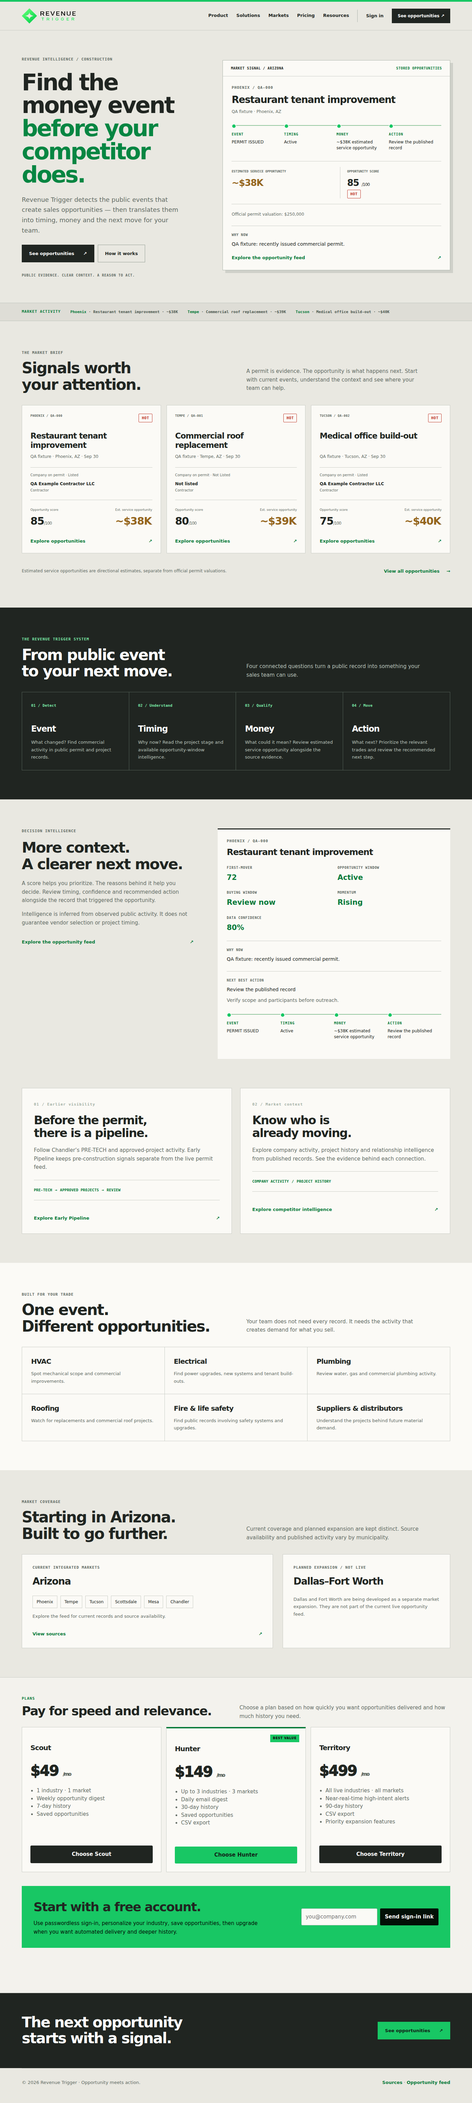
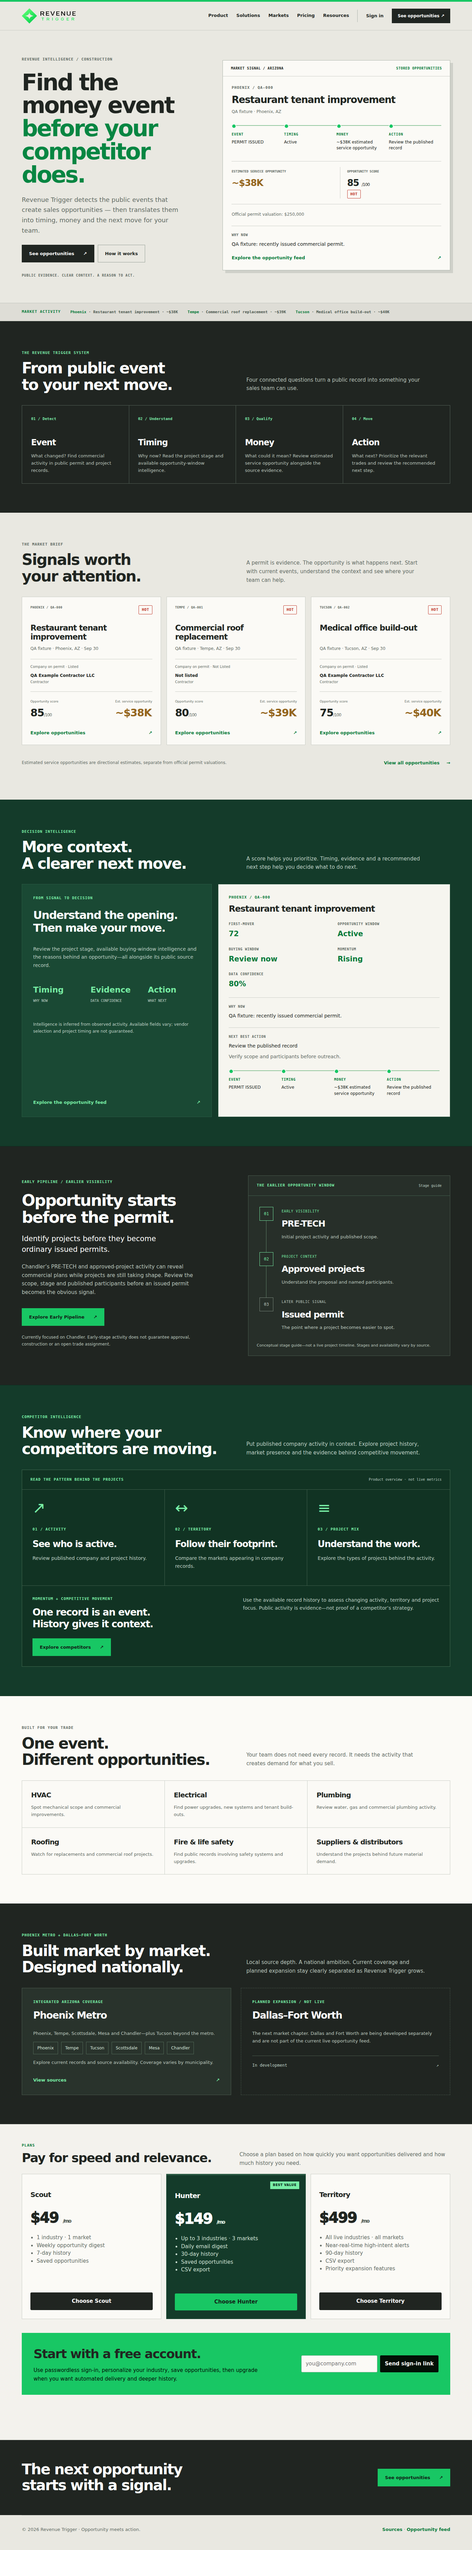
Refine homepage section hierarchy and green product storytelling

diff --git a/frontend/public/assets/rt-marketing.css b/frontend/public/assets/rt-marketing.css
@@ -1,3 +1,65 @@
 .rt-marketing main{overflow:clip}.rt-marketing .rt-hero{padding:76px 0 62px}.rt-hero-grid{display:grid;grid-template-columns:.88fr 1.12fr;gap:64px;align-items:start}.rt-marketing .rt-hero h1{font-size:clamp(45px,4.8vw,68px);line-height:1.02;letter-spacing:-.055em;margin:24px 0;max-width:600px;font-weight:800}.rt-marketing .rt-hero h1 em{font-style:normal;color:#078642!important}.rt-hero-lead{font-size:18px;color:var(--rt-muted);max-width:480px;margin-bottom:26px}.rt-hero-actions{display:flex;flex-wrap:wrap;gap:10px}.rt-hero-foot{font:600 10px/1.5 ui-monospace,monospace;letter-spacing:.08em;text-transform:uppercase;color:var(--rt-muted);margin-top:30px}.rt-command{background:var(--paper);border:1px solid #adb5ac;box-shadow:8px 8px 0 #cfd0c9;position:relative;margin-top:10px}.rt-command-head{display:flex;justify-content:space-between;gap:20px;align-items:center;border-bottom:1px solid var(--rt-line);padding:15px 23px;font:650 10px/1.5 ui-monospace,monospace;text-transform:uppercase;letter-spacing:.06em}.rt-command-head span:last-child{color:var(--green-dark)}.rt-command-body{padding:25px}.rt-command h2{font-size:28px;line-height:1.13;margin:10px 0}.rt-command p.rt-muted{font-size:12px;margin:8px 0}.rt-command .rt-decision-metrics{grid-template-columns:1fr 1fr}.rt-command .rt-decision-metrics>div:nth-child(n+3){display:none}.rt-command .rt-decision-metrics strong{font-size:20px}.rt-command .rt-reason:last-child{display:none}.rt-command .rt-trigger-timeline{grid-template-columns:repeat(4,1fr)}.rt-command-value{border-block:1px solid var(--rt-line);padding:16px 0;margin:20px 0;display:grid;grid-template-columns:1fr 1fr;gap:20px}.rt-command-value strong{display:block;font-size:26px;letter-spacing:-.04em;margin-top:5px}.rt-command-value small{font:600 9px/1.5 ui-monospace,monospace;text-transform:uppercase;color:var(--rt-muted)}.rt-command-value>div+div{border-left:1px solid var(--rt-line);padding-left:20px}.rt-command-value p{margin:3px 0 0;font-size:10px;color:var(--rt-muted)}.rt-ticker{border-block:1px solid #bec4bb;background:#deddd6}.rt-ticker-inner{display:flex;align-items:center;gap:28px;padding:17px 0;overflow:auto;scrollbar-width:thin}.rt-ticker .rt-kicker{white-space:nowrap;color:var(--green-dark);font-weight:750}.rt-ticker-item{white-space:nowrap;font:550 11px/1.4 ui-monospace,monospace;color:#505b52}.rt-ticker-item strong{color:var(--green-dark)}.rt-block{padding:84px 0}.rt-section-head{display:grid;grid-template-columns:1fr 1fr;gap:60px;align-items:end;margin-bottom:36px}.rt-section-head h2{font-size:44px;line-height:1.08;margin:12px 0 0}.rt-section-head p{margin:0;max-width:520px;color:var(--rt-muted)}.rt-preview-grid{display:grid;grid-template-columns:repeat(3,1fr);gap:16px}.rt-preview-card{background:var(--paper);border:1px solid var(--rt-line);padding:24px;display:flex;flex-direction:column;min-width:0}.rt-card-top{display:flex;align-items:start;justify-content:space-between;gap:16px}.rt-card-top .rt-kicker{font-size:9px;letter-spacing:.04em}.rt-preview-card h3{font-size:23px;line-height:1.15;margin:26px 0 10px;min-height:54px}.rt-card-address{font-size:12px;color:var(--rt-muted);margin:0 0 20px}.rt-card-company{border-block:1px solid var(--rt-line);padding:14px 0;margin-top:auto;min-height:80px}.rt-card-company small{display:block;color:var(--rt-muted);font-size:10px;margin-bottom:6px}.rt-card-company strong{font-size:12px;font-weight:600}.rt-card-metrics{display:flex;justify-content:space-between;gap:15px;padding:22px 0 8px}.rt-card-metrics small{display:block;font-size:9px;color:var(--rt-muted)}.rt-card-metrics strong{display:block;font-size:30px;letter-spacing:-.04em;margin-top:3px}.rt-card-metrics strong span{font-size:12px;color:var(--rt-muted);font-weight:500}.rt-block-foot{margin-top:30px;display:flex;justify-content:space-between;align-items:center;gap:25px}.rt-block-foot p{font-size:12px;color:var(--rt-muted)}.rt-block-foot .rt-text-link{padding:0;white-space:nowrap}.rt-dark{background:var(--graphite);color:white}.rt-dark .rt-kicker{color:#78e6a4}.rt-dark h2,.rt-dark h3{color:#fff!important}.rt-dark .rt-section-head p{color:#b9c3bb}.rt-flow{display:grid;grid-template-columns:repeat(4,1fr);border:1px solid #536056}.rt-flow article{border-right:1px solid #536056;padding:26px;min-height:220px}.rt-flow article:last-child{border-right:0}.rt-flow small{font:600 11px/1.5 ui-monospace,monospace;color:#78e6a4}.rt-flow h3{font-size:24px;margin:40px 0 10px}.rt-flow p{font-size:13px;color:#b9c3bb;margin:0}.rt-decision-grid{display:grid;grid-template-columns:.85fr 1.15fr;gap:70px;align-items:start}.rt-decision-copy h2{font-size:43px;line-height:1.1;margin:16px 0 20px}.rt-decision-copy p{color:var(--rt-muted)}.rt-decision-panel{border-top:3px solid var(--graphite);background:var(--paper);padding:26px}.rt-decision-panel h3{font-size:25px;line-height:1.15;margin:10px 0}.rt-feature-grid{display:grid;grid-template-columns:1fr 1fr;gap:24px}.rt-feature{background:var(--paper);border:1px solid var(--rt-line);padding:34px}.rt-feature h2{font-size:34px;line-height:1.1;margin:18px 0}.rt-feature p{color:var(--rt-muted);font-size:15px}.rt-feature-index{color:#a4b0a5;font:600 11px ui-monospace,monospace;letter-spacing:.1em}.rt-feature-stages{display:flex;flex-wrap:wrap;gap:8px;border-block:1px solid var(--rt-line);padding:22px 0;margin:24px 0;font:650 11px ui-monospace,monospace;color:var(--green-dark)}.rt-trades{display:grid;grid-template-columns:repeat(3,1fr);border-top:1px solid var(--rt-line);border-left:1px solid var(--rt-line)}.rt-trades article{padding:26px;border-right:1px solid var(--rt-line);border-bottom:1px solid var(--rt-line)}.rt-trades h3{font-size:20px;margin:0 0 10px}.rt-trades p{color:var(--rt-muted);font-size:13px;margin:0}.rt-market-grid{display:grid;grid-template-columns:1.2fr .8fr;gap:28px}.rt-market-panel{border:1px solid var(--rt-line);padding:30px;background:var(--paper)}.rt-market-panel h3{font-size:28px;margin:10px 0 20px}.rt-market-list{display:flex;gap:9px;flex-wrap:wrap}.rt-market-list span{padding:8px 11px;border:1px solid var(--rt-line);font-size:12px}.rt-market-panel p{color:var(--rt-muted);font-size:13px}.rt-final{background:var(--graphite);padding:62px 0;color:white}.rt-final .wrap{display:flex;align-items:center;justify-content:space-between;gap:35px}.rt-final h2{color:white!important;font-size:42px;margin:0;line-height:1.1;max-width:650px}.rt-unavailable{color:var(--rt-muted);padding:20px 0;line-height:1.6;font-size:14px}.rt-notification{padding:18px 24px;margin-top:22px;background:var(--paper);border-left:3px solid var(--green-dark);font-size:14px}.rt-notification[hidden]{display:none}.rt-notification a{color:var(--green-dark);text-decoration:underline}.rt-preview-empty{grid-column:1/-1;padding:35px;border:1px solid var(--rt-line);color:var(--rt-muted)}
 @media(max-width:1000px){.rt-hero-grid{gap:35px;grid-template-columns:1fr 1fr}.rt-marketing .rt-hero h1{font-size:52px}.rt-preview-grid{gap:12px}.rt-preview-card{padding:18px}.rt-preview-card h3{font-size:20px}.rt-card-metrics strong{font-size:25px}.rt-decision-grid{gap:35px}.rt-flow article{padding:20px}.rt-section-head h2{font-size:38px}}
 @media(max-width:700px){.rt-marketing .rt-hero{padding:38px 0 40px}.rt-hero-grid,.rt-section-head,.rt-decision-grid,.rt-feature-grid,.rt-market-grid{grid-template-columns:1fr;gap:30px}.rt-marketing .rt-hero h1{font-size:48px;max-width:430px}.rt-hero-lead{font-size:16px}.rt-hero-actions{gap:9px}.rt-hero-actions .rt-button{padding:13px 14px;gap:10px;font-size:12px}.rt-command{margin:10px 6px 0 0;box-shadow:6px 6px 0 #cfd0c9}.rt-command-body{padding:22px}.rt-command h2{font-size:25px}.rt-command .rt-trigger-timeline{grid-template-columns:1fr 1fr}.rt-command-head{padding:14px 20px;font-size:9px}.rt-command-value strong{font-size:23px}.rt-command-value>div+div{padding-left:14px}.rt-block{padding:48px 0}.rt-section-head{gap:18px;margin-bottom:26px}.rt-section-head h2,.rt-decision-copy h2{font-size:35px}.rt-preview-grid{grid-template-columns:1fr;gap:16px}.rt-preview-card{padding:24px}.rt-preview-card h3{font-size:25px;min-height:0;margin-top:20px}.rt-card-metrics strong{font-size:32px}.rt-block-foot{display:block}.rt-block-foot .rt-text-link{margin-top:18px;white-space:normal}.rt-flow{grid-template-columns:1fr 1fr}.rt-flow article{min-height:200px;border-bottom:1px solid #536056}.rt-flow article:nth-child(2){border-right:0}.rt-flow article:nth-child(n+3){border-bottom:0}.rt-flow h3{margin-top:30px;font-size:21px}.rt-flow p{font-size:12px}.rt-feature{padding:27px}.rt-feature h2{font-size:31px}.rt-trades{grid-template-columns:1fr 1fr}.rt-trades article{padding:20px}.rt-trades h3{font-size:17px}.rt-trades p{font-size:12px}.rt-final{padding:42px 0}.rt-final .wrap{display:block}.rt-final h2{font-size:36px}.rt-final .rt-button{margin-top:24px}}
+/* Homepage visual pass: scoped themes preserve the opening sections. */
+.rt-marketing .rt-deep-green{background:#143b2a;border-block:1px solid #0d2d1f;color:#fff}
+.rt-marketing .rt-deep-green>.wrap>.rt-section-head h2,.rt-marketing .rt-deep-green .rt-decision-intro h3,.rt-marketing .rt-deep-green .rt-competitor-preview h3{color:#fff!important}
+.rt-marketing .rt-deep-green .rt-section-head p{color:#bfd1c6}
+.rt-marketing .rt-deep-green .rt-kicker{color:#79efa6}
+.rt-marketing #intelligence .rt-decision-grid{grid-template-columns:.9fr 1.1fr;gap:18px;align-items:stretch}
+.rt-marketing .rt-decision-intro{background:#1a4934;border:1px solid #2b5b44;padding:32px;display:flex;flex-direction:column}
+.rt-marketing .rt-decision-intro h3{font-size:32px;line-height:1.15;margin:22px 0 18px}
+.rt-marketing .rt-decision-intro p{color:#bdd0c4;font-size:14px}
+.rt-marketing .rt-decision-principles{display:grid;grid-template-columns:repeat(3,1fr);gap:14px;margin:28px 0}
+.rt-marketing .rt-decision-principles strong{display:block;font-size:23px;color:#77eca3}
+.rt-marketing .rt-decision-principles span{display:block;margin-top:7px;font:10px/1.5 ui-monospace,monospace;text-transform:uppercase;color:#bfd1c6}
+.rt-marketing .rt-decision-intro .rt-text-link{color:#79efa6;margin-top:auto}
+.rt-marketing #intelligence .rt-decision-panel{background:#f6f5ef;border:1px solid #355e49;padding:30px;color:var(--graphite)}
+.rt-marketing #intelligence .rt-decision-panel .rt-kicker{color:var(--green-dark)}
+.rt-marketing .rt-product-dark{background:#202521;color:#fff}
+.rt-marketing .rt-product-dark h2,.rt-marketing .rt-product-dark h3{color:#fff!important}
+.rt-marketing .rt-product-dark .rt-kicker{color:#79efa6}
+.rt-marketing .rt-product-dark p{color:#bcc8bf}
+.rt-marketing .rt-product-grid{display:grid;grid-template-columns:1fr 1fr;gap:70px;align-items:center}
+.rt-marketing .rt-product-copy h2{font-size:clamp(34px,3.5vw,46px);line-height:1.08;margin:20px 0}
+.rt-marketing .rt-product-copy .rt-product-lead{font-size:21px;color:#fff;line-height:1.5;max-width:430px}
+.rt-marketing .rt-product-copy>p{font-size:15px;max-width:510px}
+.rt-marketing .rt-product-copy .rt-button{margin-top:18px}
+.rt-marketing .rt-caveat{font-size:12px!important;line-height:1.65;margin-top:24px}
+.rt-marketing .rt-stage-preview{border:1px solid #4b5b4f;background:#272f29}
+.rt-marketing .rt-preview-heading{padding:20px 24px;border-bottom:1px solid #41604d;display:flex;justify-content:space-between;align-items:center;gap:20px}
+.rt-marketing .rt-preview-heading>span:last-child{font:10px/1.5 ui-monospace,monospace;color:#bfd1c6;text-align:right}
+.rt-marketing .rt-project-stages{list-style:none;margin:0;padding:32px}
+.rt-marketing .rt-project-stages li{display:flex;gap:24px;position:relative;padding-bottom:34px}
+.rt-marketing .rt-project-stages li:not(:last-child):before{content:'';position:absolute;left:19px;top:40px;bottom:0;border-left:1px solid #63846c}
+.rt-marketing .rt-stage-index{flex:0 0 40px;height:40px;border:1px solid #79efa6;display:grid;place-items:center;color:#79efa6;font:12px ui-monospace,monospace}
+.rt-marketing .rt-project-stages small{font:10px ui-monospace,monospace;text-transform:uppercase;color:#79efa6;letter-spacing:.08em}
+.rt-marketing .rt-project-stages h3{font-size:25px;margin:8px 0}
+.rt-marketing .rt-project-stages p{font-size:13px;margin:0}
+.rt-marketing .rt-project-stages .rt-stage-later{padding-bottom:0}
+.rt-marketing .rt-stage-later .rt-stage-index{border-color:#7b897e;color:#bcc8bf}
+.rt-marketing .rt-stage-later small{color:#bcc8bf}
+.rt-marketing .rt-preview-caption{padding:0 24px 20px;font-size:11px!important;margin:0}
+.rt-marketing .rt-competitor-preview{border:1px solid #416b52;background:#113323}
+.rt-marketing .rt-movement-grid{display:grid;grid-template-columns:repeat(3,1fr)}
+.rt-marketing .rt-movement-grid article{padding:30px;border-right:1px solid #41604d}
+.rt-marketing .rt-movement-grid article:last-child{border:0}
+.rt-marketing .rt-movement-symbol{display:block;font-size:45px;color:#79efa6;margin-bottom:32px;line-height:1}
+.rt-marketing .rt-movement-grid h3{font-size:26px;line-height:1.2;margin:18px 0 12px}
+.rt-marketing .rt-movement-grid p,.rt-marketing .rt-momentum-strip p{font-size:14px;color:#bfd1c6}
+.rt-marketing .rt-momentum-strip{padding:30px;border-top:1px solid #41604d;display:grid;grid-template-columns:1fr 1fr;gap:24px 40px;align-items:start}
+.rt-marketing .rt-momentum-strip h3{font-size:28px;line-height:1.2;margin:14px 0 0}
+.rt-marketing .rt-momentum-strip p{margin:0}
+.rt-marketing .rt-momentum-strip .rt-button{justify-self:start}
+.rt-marketing #markets .rt-market-grid{grid-template-columns:1fr 1fr}
+.rt-marketing #markets .rt-market-panel{background:#29332c;border-color:#4b5b4f;padding:32px}
+.rt-marketing #markets .rt-market-planned{background:transparent;border-style:dashed}
+.rt-marketing #markets .rt-market-list span{border-color:#526a58;color:#d7e7dc}
+.rt-marketing #markets .rt-text-link{color:#79efa6}
+.rt-marketing .rt-planned-label{border-top:1px solid #4b5b4f;margin-top:32px;padding-top:20px;display:flex;justify-content:space-between;font:12px ui-monospace,monospace;color:#bfd1c6}
+body.rt-marketing #pricing .price.featured{background:#143b2a!important;border-color:#2b5b44!important;color:#fff!important}
+body.rt-marketing #pricing .price.featured h3,body.rt-marketing #pricing .price.featured .money{color:#fff!important}
+body.rt-marketing #pricing .price.featured small,body.rt-marketing #pricing .price.featured li{color:#d0e2d6!important}
+body.rt-marketing #pricing .price.featured .badge{background:#79efa6!important;color:#143b2a!important}
+@media(max-width:900px){.rt-marketing .rt-product-grid{gap:30px}.rt-marketing .rt-decision-principles{grid-template-columns:1fr;gap:15px}.rt-marketing .rt-decision-principles strong{font-size:20px}.rt-marketing .rt-movement-grid article{padding:22px}.rt-marketing .rt-movement-grid h3{font-size:23px}}
+@media(max-width:700px){.rt-marketing #intelligence .rt-decision-grid,.rt-marketing .rt-product-grid,.rt-marketing #markets .rt-market-grid,.rt-marketing .rt-momentum-strip{grid-template-columns:1fr}.rt-marketing .rt-decision-intro,.rt-marketing #intelligence .rt-decision-panel{padding:24px}.rt-marketing .rt-decision-principles{grid-template-columns:repeat(3,1fr);gap:8px}.rt-marketing .rt-decision-principles strong{font-size:17px}.rt-marketing .rt-decision-principles span{font-size:9px}.rt-marketing .rt-decision-intro h3{font-size:29px}.rt-marketing .rt-preview-heading{align-items:start;padding:18px;gap:16px}.rt-marketing .rt-project-stages{padding:26px 20px}.rt-marketing .rt-movement-grid{grid-template-columns:1fr}.rt-marketing .rt-movement-grid article{border-right:0;border-bottom:1px solid #41604d;padding:25px}.rt-marketing .rt-movement-symbol{margin-bottom:22px;font-size:36px}.rt-marketing .rt-momentum-strip{padding:25px}.rt-marketing #markets .rt-market-panel{padding:26px}}

diff --git a/frontend/public/index.html b/frontend/public/index.html
@@ -6,12 +6,20 @@
 <main>
 <section class="rt-hero"><div class="wrap rt-hero-grid"><div><span class="rt-kicker">Revenue intelligence / construction</span><h1>Find the money event <em>before your competitor does.</em></h1><p class="rt-hero-lead">Revenue Trigger detects the public events that create sales opportunities — then translates them into timing, money and the next move for your team.</p><div class="rt-hero-actions"><a class="rt-button" href="/signals">See opportunities <span aria-hidden="true">↗</span></a><a class="rt-button secondary" href="#product">How it works</a></div><p class="rt-hero-foot">Public evidence. Clear context. A reason to act.</p></div><div class="rt-command"><div class="rt-command-head"><span>Market signal / Arizona</span><span id="heroState">Connecting</span></div><div class="rt-command-body" id="heroSignal" aria-live="polite"><p class="rt-unavailable">Loading a current opportunity…</p></div></div></div></section>
 <div class="rt-ticker"><div class="wrap rt-ticker-inner"><span class="rt-kicker">Market activity</span><div id="marketTicker" class="rt-ticker-inner" style="padding:0" aria-live="polite"><span class="rt-ticker-item">Checking current public signals…</span></div></div></div>
-<section class="rt-block" id="opportunities"><div class="wrap"><div class="rt-section-head"><div><span class="rt-kicker">The market brief</span><h2>Signals worth<br>your attention.</h2></div><p>A permit is evidence. The opportunity is what happens next. Start with current events, understand the context and see where your team can help.</p></div><p id="homeFeedNotice" class="rt-feed-notice" role="status" hidden></p><div id="signalPreviews" class="rt-preview-grid" aria-live="polite"><p class="rt-preview-empty">Loading current opportunities…</p></div><div class="rt-block-foot"><p>Estimated service opportunities are directional estimates, separate from official permit valuations.</p><a class="rt-text-link" href="/signals">View all opportunities <span aria-hidden="true">→</span></a></div></div></section>
 <section class="rt-block rt-dark" id="product"><div class="wrap"><div class="rt-section-head"><div><span class="rt-kicker">The Revenue Trigger system</span><h2>From public event<br>to your next move.</h2></div><p>Four connected questions turn a public record into something your sales team can use.</p></div><div class="rt-flow"><article><small>01 / Detect</small><h3>Event</h3><p>What changed? Find commercial activity in public permit and project records.</p></article><article><small>02 / Understand</small><h3>Timing</h3><p>Why now? Read the project stage and available opportunity-window intelligence.</p></article><article><small>03 / Qualify</small><h3>Money</h3><p>What could it mean? Review estimated service opportunity alongside the source evidence.</p></article><article><small>04 / Move</small><h3>Action</h3><p>What next? Prioritize the relevant trades and review the recommended next step.</p></article></div></div></section>
-<section class="rt-block" id="intelligence"><div class="wrap rt-decision-grid"><div class="rt-decision-copy"><span class="rt-kicker">Decision intelligence</span><h2>More context.<br>A clearer next move.</h2><p>A score helps you prioritize. The reasons behind it help you decide. Review timing, confidence and recommended action alongside the record that triggered the opportunity.</p><p class="rt-muted">Intelligence is inferred from observed public activity. It does not guarantee vendor selection or project timing.</p><a class="rt-text-link" href="/signals">Explore the opportunity feed <span aria-hidden="true">↗</span></a></div><div id="decisionDemo" class="rt-decision-panel"><p class="rt-unavailable">Loading available intelligence…</p></div></div></section>
-<section class="rt-block" style="padding-top:0"><div class="wrap rt-feature-grid"><article class="rt-feature"><span class="rt-feature-index">01 / Earlier visibility</span><h2>Before the permit,<br>there is a pipeline.</h2><p>Follow Chandler’s PRE-TECH and approved-project activity. Early Pipeline keeps pre-construction signals separate from the live permit feed.</p><div class="rt-feature-stages"><span>PRE-TECH</span><span aria-hidden="true">→</span><span>APPROVED PROJECTS</span><span aria-hidden="true">→</span><span>REVIEW</span></div><a href="/signals#pipeline" class="rt-text-link">Explore Early Pipeline <span aria-hidden="true">↗</span></a></article><article class="rt-feature"><span class="rt-feature-index">02 / Market context</span><h2>Know who is<br>already moving.</h2><p>Explore company activity, project history and relationship intelligence from published records. See the evidence behind each connection.</p><div class="rt-feature-stages"><span>COMPANY ACTIVITY</span><span aria-hidden="true">/</span><span>PROJECT HISTORY</span></div><a href="/competitors" class="rt-text-link">Explore competitor intelligence <span aria-hidden="true">↗</span></a></article></div></section>
+<section class="rt-block" id="opportunities"><div class="wrap"><div class="rt-section-head"><div><span class="rt-kicker">The market brief</span><h2>Signals worth<br>your attention.</h2></div><p>A permit is evidence. The opportunity is what happens next. Start with current events, understand the context and see where your team can help.</p></div><p id="homeFeedNotice" class="rt-feed-notice" role="status" hidden></p><div id="signalPreviews" class="rt-preview-grid" aria-live="polite"><p class="rt-preview-empty">Loading current opportunities…</p></div><div class="rt-block-foot"><p>Estimated service opportunities are directional estimates, separate from official permit valuations.</p><a class="rt-text-link" href="/signals">View all opportunities <span aria-hidden="true">→</span></a></div></div></section>
+<section class="rt-block rt-deep-green" id="intelligence"><div class="wrap">
+<div class="rt-section-head"><div><span class="rt-kicker">Decision intelligence</span><h2>More context.<br>A clearer next move.</h2></div><p>A score helps you prioritize. Timing, evidence and a recommended next step help you decide what to do next.</p></div>
+<div class="rt-decision-grid"><div class="rt-decision-copy rt-decision-intro"><span class="rt-kicker">From signal to decision</span><h3>Understand the opening.<br>Then make your move.</h3><p>Review the project stage, available buying-window intelligence and the reasons behind an opportunity—all alongside its public source record.</p><div class="rt-decision-principles"><div><strong>Timing</strong><span>Why now</span></div><div><strong>Evidence</strong><span>Data confidence</span></div><div><strong>Action</strong><span>What next</span></div></div><p class="rt-caveat">Intelligence is inferred from observed activity. Available fields vary; vendor selection and project timing are not guaranteed.</p><a class="rt-text-link" href="/signals">Explore the opportunity feed <span aria-hidden="true">↗</span></a></div><div id="decisionDemo" class="rt-decision-panel"><p class="rt-unavailable">Loading available intelligence…</p></div></div>
+</div></section>
+<section class="rt-block rt-product-dark" id="early-pipeline"><div class="wrap rt-product-grid"><div class="rt-product-copy"><span class="rt-kicker">Early Pipeline / Earlier visibility</span><h2>Opportunity starts<br>before the permit.</h2><p class="rt-product-lead">Identify projects before they become ordinary issued permits.</p><p>Chandler’s PRE-TECH and approved-project activity can reveal commercial plans while projects are still taking shape. Review the scope, stage and published participants before an issued permit becomes the obvious signal.</p><a class="rt-button green" href="/signals#pipeline">Explore Early Pipeline <span aria-hidden="true">↗</span></a><p class="rt-caveat">Currently focused on Chandler. Early-stage activity does not guarantee approval, construction or an open trade assignment.</p></div>
+<div class="rt-stage-preview"><div class="rt-preview-heading"><span class="rt-kicker">The earlier opportunity window</span><span>Stage guide</span></div><ol class="rt-project-stages"><li><span class="rt-stage-index">01</span><div><small>Early visibility</small><h3>PRE-TECH</h3><p>Initial project activity and published scope.</p></div></li><li><span class="rt-stage-index">02</span><div><small>Project context</small><h3>Approved projects</h3><p>Understand the proposal and named participants.</p></div></li><li class="rt-stage-later"><span class="rt-stage-index">03</span><div><small>Later public signal</small><h3>Issued permit</h3><p>The point where a project becomes easier to spot.</p></div></li></ol><p class="rt-preview-caption">Conceptual stage guide—not a live project timeline. Stages and availability vary by source.</p></div>
+</div></section>
+<section class="rt-block rt-deep-green" id="competitor-intelligence"><div class="wrap"><div class="rt-section-head"><div><span class="rt-kicker">Competitor intelligence</span><h2>Know where your<br>competitors are moving.</h2></div><p>Put published company activity in context. Explore project history, market presence and the evidence behind competitive movement.</p></div>
+<div class="rt-competitor-preview"><div class="rt-preview-heading"><span class="rt-kicker">Read the pattern behind the projects</span><span>Product overview · not live metrics</span></div><div class="rt-movement-grid"><article><span class="rt-movement-symbol" aria-hidden="true">↗</span><span class="rt-kicker">01 / Activity</span><h3>See who is active.</h3><p>Review published company and project history.</p></article><article><span class="rt-movement-symbol" aria-hidden="true">↔</span><span class="rt-kicker">02 / Territory</span><h3>Follow their footprint.</h3><p>Compare the markets appearing in company records.</p></article><article><span class="rt-movement-symbol" aria-hidden="true">≡</span><span class="rt-kicker">03 / Project mix</span><h3>Understand the work.</h3><p>Explore the types of projects behind the activity.</p></article></div><div class="rt-momentum-strip"><div><span class="rt-kicker">Momentum + competitive movement</span><h3>One record is an event.<br>History gives it context.</h3></div><p>Use the available record history to assess changing activity, territory and project focus. Public activity is evidence—not proof of a competitor’s strategy.</p><a class="rt-button green" href="/competitors">Explore competitors <span aria-hidden="true">↗</span></a></div></div>
+</div></section>
 <section class="rt-block" id="solutions" style="background:var(--paper)"><div class="wrap"><div class="rt-section-head"><div><span class="rt-kicker">Built for your trade</span><h2>One event.<br>Different opportunities.</h2></div><p>Your team does not need every record. It needs the activity that creates demand for what you sell.</p></div><div class="rt-trades"><article><h3>HVAC</h3><p>Spot mechanical scope and commercial improvements.</p></article><article><h3>Electrical</h3><p>Find power upgrades, new systems and tenant build-outs.</p></article><article><h3>Plumbing</h3><p>Review water, gas and commercial plumbing activity.</p></article><article><h3>Roofing</h3><p>Watch for replacements and commercial roof projects.</p></article><article><h3>Fire &amp; life safety</h3><p>Find public records involving safety systems and upgrades.</p></article><article><h3>Suppliers &amp; distributors</h3><p>Understand the projects behind future material demand.</p></article></div></div></section>
-<section class="rt-block" id="markets"><div class="wrap"><div class="rt-section-head"><div><span class="rt-kicker">Market coverage</span><h2>Starting in Arizona.<br>Built to go further.</h2></div><p>Current coverage and planned expansion are kept distinct. Source availability and published activity vary by municipality.</p></div><div class="rt-market-grid"><article class="rt-market-panel"><span class="rt-kicker">Current integrated markets</span><h3>Arizona</h3><div class="rt-market-list" id="marketList"></div><p>Explore the feed for current records and source availability.</p><a class="rt-text-link" href="/sources">View sources <span aria-hidden="true">↗</span></a></article><article class="rt-market-panel"><span class="rt-kicker">Planned expansion / not live</span><h3>Dallas–Fort Worth</h3><p>Dallas and Fort Worth are being developed as a separate market expansion. They are not part of the current live opportunity feed.</p></article></div></div></section>
+<section class="rt-block rt-product-dark" id="markets"><div class="wrap"><div class="rt-section-head"><div><span class="rt-kicker">Phoenix Metro + Dallas–Fort Worth</span><h2>Built market by market.<br>Designed nationally.</h2></div><p>Local source depth. A national ambition. Current coverage and planned expansion stay clearly separated as Revenue Trigger grows.</p></div><div class="rt-market-grid"><article class="rt-market-panel"><span class="rt-kicker">Integrated Arizona coverage</span><h3>Phoenix Metro</h3><p>Phoenix, Tempe, Scottsdale, Mesa and Chandler—plus Tucson beyond the metro.</p><div class="rt-market-list" id="marketList"></div><p>Explore current records and source availability. Coverage varies by municipality.</p><a class="rt-text-link" href="/sources">View sources <span aria-hidden="true">↗</span></a></article><article class="rt-market-panel rt-market-planned"><span class="rt-kicker">Planned expansion / not live</span><h3>Dallas–Fort Worth</h3><p>The next market chapter. Dallas and Fort Worth are being developed separately and are not part of the current live opportunity feed.</p><div class="rt-planned-label">In development <span aria-hidden="true">↗</span></div></article></div></div></section>
 <section class="section light-band" id="pricing"><div class="wrap"><div class="section-head"><div><span class="eyebrow">Plans</span><h2>Pay for speed and relevance.</h2></div><p>Choose a plan based on how quickly you want opportunities delivered and how much history you need.</p></div><div class="pricing"><div class="price"><h3>Scout</h3><div class="money">$49 <small>/mo</small></div><ul><li>1 industry · 1 market</li><li>Weekly opportunity digest</li><li>7-day history</li><li>Saved opportunities</li></ul><button class="btn btn-secondary" onclick="buyPlan('Scout')">Choose Scout</button></div><div class="price featured"><span class="badge">BEST VALUE</span><h3>Hunter</h3><div class="money">$149 <small>/mo</small></div><ul><li>Up to 3 industries · 3 markets</li><li>Daily email digest</li><li>30-day history</li><li>Saved opportunities</li><li>CSV export</li></ul><button class="btn btn-primary" onclick="buyPlan('Hunter')">Choose Hunter</button></div><div class="price"><h3>Territory</h3><div class="money">$499 <small>/mo</small></div><ul><li>All live industries · all markets</li><li>Near-real-time high-intent alerts</li><li>90-day history</li><li>CSV export</li><li>Priority expansion features</li></ul><button class="btn btn-secondary" onclick="buyPlan('Territory')">Choose Territory</button></div></div><div class="cta"><div><h2>Start with a free account.</h2><p>Use passwordless sign-in, personalize your industry, save opportunities, then upgrade when you want automated delivery and deeper history.</p></div><form class="capture" id="capture"><input required type="email" id="email" placeholder="you@company.com"/><button>Send sign-in link</button></form></div></div></section>
 <section class="rt-final"><div class="wrap"><h2>The next opportunity<br>starts with a signal.</h2><a class="rt-button green" href="/signals">See opportunities <span aria-hidden="true">↗</span></a></div></section>
 </main><footer class="wrap"><div>© 2026 Revenue Trigger · Opportunity meets action.</div><div><a href="/sources">Sources</a> · <a href="/signals">Opportunity feed</a></div></footer>

diff --git a/docs/redesign/REVIEW.md b/docs/redesign/REVIEW.md
@@ -10,6 +10,23 @@
 - Backend changes: **none**
 - D1, adapters, scoring, temperature, auth contracts, billing contracts, cron, DFW, and Cloudflare configuration: **unchanged**
 
+## Homepage visual pass — September 30, 2026
+
+Parent: `cf08fa51619eb813559d6424598c9e599a684d81`. Presentation-only homepage update; all existing deployment blockers below remain open.
+
+- Kept the header, hero and ticker unchanged. Moved “Signals worth your attention” immediately below “How Revenue Trigger Works,” preserving both sections’ original markup and styling.
+- Matched the supplied v7 prototype’s Decision Intelligence palette: `#143b2a` band, `#1a4934` introduction panel and pale record panel. Its record/intelligence content remains populated by the existing `/feed` consumer, with no invented metrics.
+- Removed the paired bottom feature cards. Early Pipeline now has its own dark section explaining visibility before ordinary issued permits, a clearly labeled conceptual stage guide and the existing Chandler Pipeline link.
+- Added a separate green Competitor Intelligence section covering activity, territory, project mix, momentum and competitive movement. Its visual is labeled “Product overview · not live metrics”; it introduces no fabricated competitor records, metrics or new API calls.
+- Preserved Built for Your Trade. Markets now uses a dark theme with “Phoenix Metro + Dallas–Fort Worth” and “Built market by market. Designed nationally.” Phoenix Metro is distinguished from Tucson; DFW remains explicitly planned/not live.
+- Hunter’s middle pricing card now uses deep green. Pricing, plan features and checkout handlers are unchanged. Final CTA/footer unchanged.
+
+Verification: all five homepage responsive layout checks passed (390, 430, 768, 1366 and 1920px), with no horizontal overflow or page JavaScript errors. Original hero/ticker/product/opportunity/trade/final-CTA markup was compared byte-for-byte with the parent, and requested section order was checked. Desktop/mobile theme colors, product navigation targets and planned DFW disclosure passed. Section screenshots were visually reviewed; isolated section crops hide the sticky header during capture, while full-page images retain it. All browser network traffic used synthetic/local interception.
+
+The prior 41-check regression and 27-check `/feed` results remain historical passing evidence; only the relevant five layout checks were rerun for this HTML/CSS-only change. No consumer/controller, signed-in dashboard, backend, Arizona adapter, DFW ingestion, scoring, auth/billing or Cloudflare configuration change. No genuine-production validation was performed. Nothing merged or deployed.
+
+Current screenshots: `screenshots/after-home-1366.png`, `screenshots/after-home-390.png`, and ten desktop/mobile section crops in `screenshots/home-visual-pass/`.
+
 ## Current review: read-only `/feed` consumer integration
 
 **Review only. Not approved for deployment.** This section supersedes earlier pending `/feed` architecture notes. Parent Work commit: `4d2884a1d828c357f03eae2c1b7517ec4797161f`. Core contract inspected through authenticated GitHub source access at branch `core/read-only-feed`, commit `e1ce8d50544944caef5453ba46812b441fa37d57`. Core’s backend branch was not merged into Work and the local backend remains untouched.
